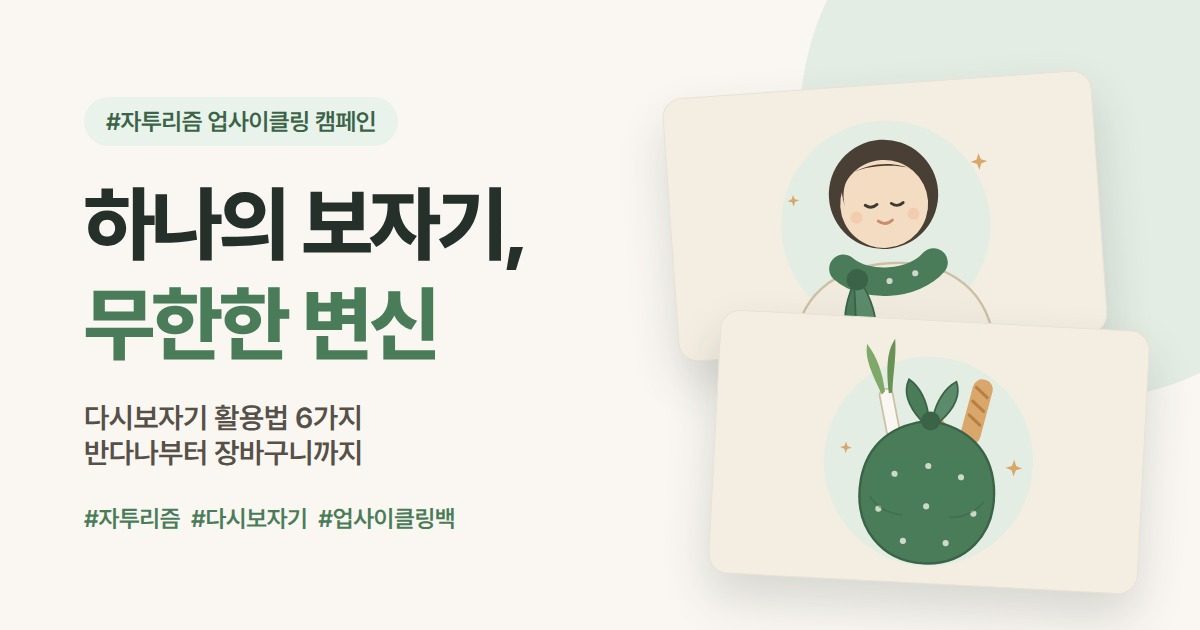
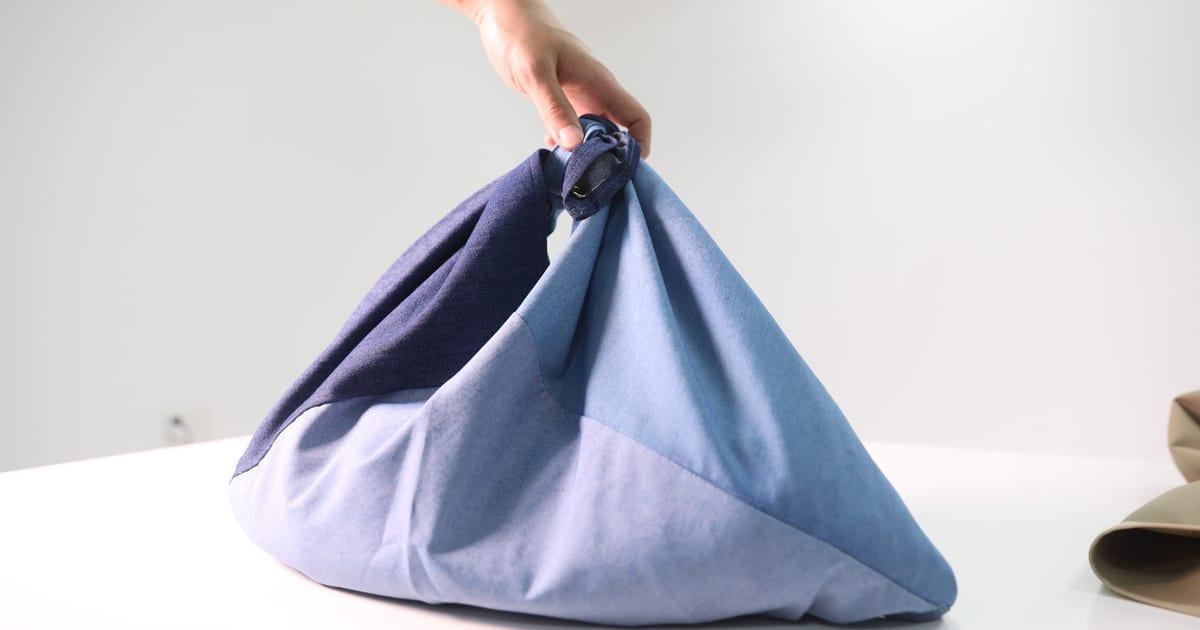
feat: 제품 사진 추가 — 주문 페이지 첫 화면·사진 모음, 메인 첫 화면, OG 이미지
- images/product-{blue,camo,plaid,lineup,flat}.jpg (1400px, 40~150KB), images/og-cover.jpg (1200x630)
- 주문 페이지: 첫 화면 그림 → 파란 가방 사진, "제품 사진" 섹션(4장) 추가
- 메인 페이지: 첫 화면 설명 아래에 카모 가방 사진
- 그동안 비어 있던 og-cover.jpg 참조가 실제 파일을 가리키게 됨

Claude-Session: https://claude.ai/code/session_01QPRQeChBrDjyHLZho41FeH

diff --git a/store/index.html b/store/index.html
@@ -69,8 +69,12 @@ a{ color:inherit; }
 .hero__badge.is-out{ color:var(--point); border-color:var(--point); }
 .hero__title{ margin:0 0 14px; font-size:26px; font-weight:700; line-height:1.38; letter-spacing:-0.03em; }
 .hero__desc{ margin:0 0 24px; font-size:14.5px; color:var(--ink-60); line-height:1.85; }
-.hero__art{ border:1px solid var(--line); border-radius:var(--radius); padding:22px; margin-bottom:24px; background:var(--bg-soft); }
-.hero__art svg{ width:100%; height:auto; }
+.hero__art{ margin:0 0 24px; border:1px solid var(--line); border-radius:var(--radius); overflow:hidden; background:var(--bg-soft); }
+.hero__art img{ display:block; width:100%; height:auto; }
+.gallery{ display:grid; grid-template-columns:1fr 1fr; gap:8px; }
+.gallery img{ display:block; width:100%; height:100%; object-fit:cover; border-radius:var(--radius); border:1px solid var(--line); }
+.gallery__wide{ grid-column:1 / -1; }
+.gallery__note{ margin:10px 0 0; font-size:12px; color:var(--ink-40); }
 
 /* ── 공통 섹션 ── */
 .sec{ padding:40px 0; border-top:1px solid var(--line); }
@@ -229,27 +233,9 @@ a{ color:inherit; }
         도시락 가방, 장바구니.
       </p>
 
-      <div class="hero__art">
-        <svg viewBox="0 0 320 180" role="img" aria-label="자투리 원단이 보자기 가방으로 바뀌는 그림">
-          <rect width="320" height="180" fill="none" />
-          <g opacity=".85">
-            <rect x="14" y="52" width="46" height="34" rx="4" fill="#D9CEBB" transform="rotate(-9 37 69)" />
-            <rect x="26" y="92" width="38" height="28" rx="4" fill="#C9BCA6" transform="rotate(7 45 106)" />
-            <rect x="8" y="102" width="30" height="22" rx="4" fill="#E2D8C7" transform="rotate(-14 23 113)" />
-          </g>
-          <path d="M84 90 H120 m0 0 l-9 -7 m9 7 l-9 7" fill="none" stroke="#8A8A8A" stroke-width="2"
-                stroke-linecap="round" stroke-linejoin="round" />
-          <path d="M216 44c-30 4-49 21-53 48-5 38 20 62 53 62s58-24 53-62c-4-27-23-44-53-48z" fill="#2F6B4F" />
-          <path d="M205 44c-12-11-16-22-12-30 10 5 17 15 19 26z" fill="#255740" />
-          <path d="M227 44c12-11 16-22 12-30-10 5-17 15-19 26z" fill="#3F8560" />
-          <circle cx="216" cy="45" r="10" fill="#255740" />
-          <g fill="#FFFFFF" opacity=".6">
-            <circle cx="193" cy="82" r="4" /><circle cx="239" cy="82" r="4" />
-            <circle cx="182" cy="112" r="4" /><circle cx="250" cy="112" r="4" />
-            <circle cx="216" cy="128" r="4" />
-          </g>
-        </svg>
-      </div>
+      <figure class="hero__art">
+        <img src="../images/product-blue.jpg" alt="다시보자기를 손에 든 모습. 세 가지 파란색 데님 원단" width="1400" height="933" />
+      </figure>
 
       <a class="btn" href="#order" id="cta">주문하기 · 25,000원</a>
     </div>
@@ -289,6 +275,20 @@ a{ color:inherit; }
           </span>
         </li>
       </ol>
+    </div>
+  </section>
+
+  <!-- ══════════ 제품 사진 ══════════ -->
+  <section class="sec">
+    <div class="wrap">
+      <h2 class="sec__title">제품 사진</h2>
+      <div class="gallery">
+        <img class="gallery__wide" src="../images/product-lineup.jpg" alt="다시보자기 네 장을 펼쳐 놓은 모습" width="1249" height="747" loading="lazy" />
+        <img src="../images/product-camo.jpg" alt="베이지·카모·초록 원단 다시보자기" width="1400" height="933" loading="lazy" />
+        <img src="../images/product-plaid.jpg" alt="네이비·체크·흰색 원단 다시보자기" width="1400" height="933" loading="lazy" />
+        <img class="gallery__wide" src="../images/product-flat.jpg" alt="펼친 다시보자기. 삼각형 네 조각을 이어 붙인 구조" width="1400" height="1335" loading="lazy" />
+      </div>
+      <p class="gallery__note">이번 제작분 일부. 색상은 랜덤 배송.</p>
     </div>
   </section>
 

diff --git a/index.html b/index.html
@@ -651,6 +651,8 @@ button{ font:inherit; color:inherit; cursor:pointer; }
   --radius:8px;
 }
 .hero::before,.hero::after{ display:none; }
+.hero__photo{ margin:0 0 20px; border:1px solid var(--line); border-radius:var(--radius); overflow:hidden; background:var(--bg-soft); }
+.hero__photo img{ display:block; width:100%; height:auto; }
 .hero__title em::after{ display:none; }
 .hero__title em{ color:var(--accent); }
 .hero__eyebrow{ border-radius:4px; padding:5px 9px; }
@@ -708,6 +710,10 @@ button{ font:inherit; color:inherit; cursor:pointer; }
         <strong>접고 묶는 방법에 따라</strong> 반다나, 헤어밴드, 장바구니.<br />
         접으면 주머니 속으로.
       </p>
+
+      <figure class="hero__photo reveal" data-delay="2">
+        <img src="./images/product-camo.jpg" alt="다시보자기를 손에 든 모습. 베이지·카모·초록 원단" width="1400" height="933" />
+      </figure>
 
       <div class="hero__stats reveal" data-delay="3">
         <div class="stat"><span class="stat__num">6가지</span><span class="stat__label">활용법</span></div>
